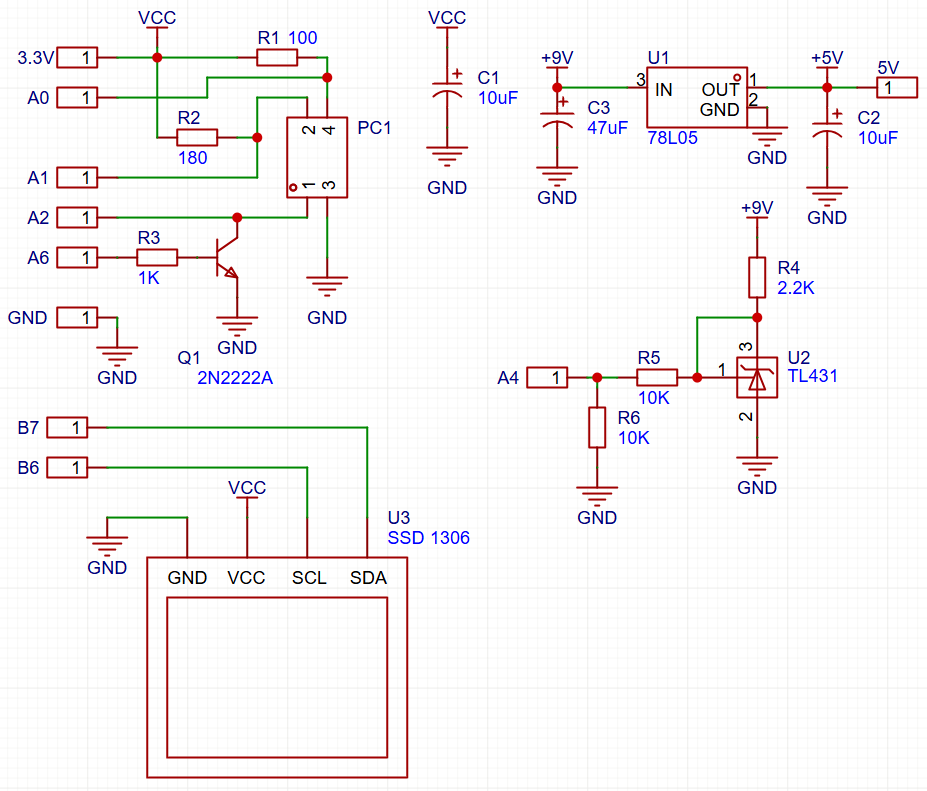
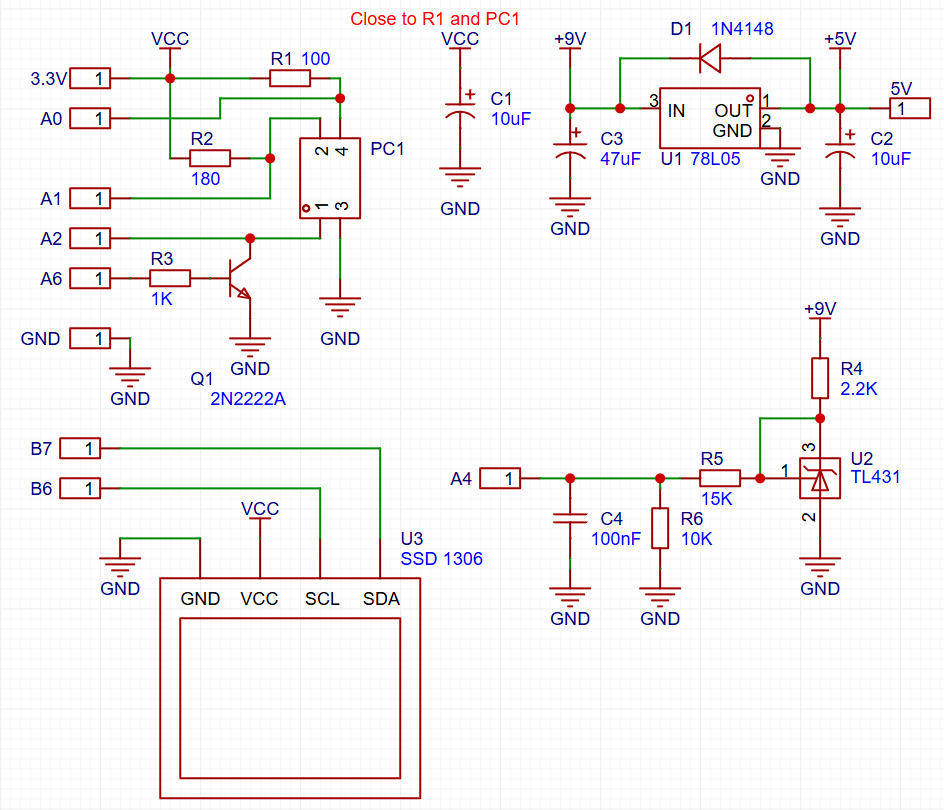
TL431 support

Changed region(s): [[0.0, 0.0, 0.5135, 1.0], [0.3625, 0.0, 0.9968, 0.7889], [0.5739, 0.6979, 0.6343, 0.7889]]

diff --git a/Core/Src/measurements.c b/Core/Src/measurements.c
@@ -3,30 +3,47 @@
 #include "ssd1306_fonts.h"
 #include <stdio.h>
 
-// TODO include ssd1306.h
-// TODO constants
-// Vdd = 3.3, Rk = 56, Rc = 100
-
 const uint8_t INDEX_A1 = 0,
 	INDEX_A2 = 1,
 	INDEX_A3 = 2,
 	INDEX_A4 = 3;
-const float VDD = 3.3f, R_A = 187, R_C = 99;
 
-//uint16_t adcValues[4];
+const float VDD = 3.3f,
+		R_A = 187,
+		R_C = 99,
+		R1 = 14.98,
+		R2 = 9.97,
+		regulatorRatio = (R1 + R2) / R2;
+
+const char REGULATOR_WITHIN_SPECS[] = "Within specs",
+		REGULATOR_SHORTED[] = "Shorted",
+		REGULATOR_DEGRADED[] = "Degraded";
+
+const char REGULATOR_SUMMARY[2][20] = {"2.45-2.55V in specs", "0-0.7V short"};
+
+enum RegulatorResult {
+	DEGRADED,
+	SHORTED,
+	WITHIN_SPECS
+};
 
 typedef struct {
-    float Vf;       // Volts
+    float Vf;       // V
     float If;       // mA
-    float Vce;      // Volts
+    float Vce;      // V
     float Ic;       // mA
-    float CTR;      // Percentage (%)
-    float Vcedark;  // Volts
+    float CTR;      // %
+    float Vcedark;  // V
     uint8_t ctrPassed;
 	uint8_t vfPassed;
 	uint8_t darkPassed;
 	float Vreg;
-} Metrics;
+} OptocouplerMetrics;
+
+typedef struct {
+	float Vreg;
+	enum RegulatorResult result;
+} RegulatorMetrics;
 
 float digitalToAnalogValue(uint16_t value) {
 	return (value * 3.3f) / 4095.0f;
@@ -36,7 +53,7 @@ char* failureMark(uint8_t passed) {
 	return passed == 1 ? "" : "* ";
 }
 
-void updateDisplay(Metrics metrics) {
+void displayOptocouplerMetrics(OptocouplerMetrics metrics) {
     char buf[32];
     ssd1306_Fill(Black);
 
@@ -54,15 +71,14 @@ void updateDisplay(Metrics metrics) {
 
     // uint8_t passed = metrics.ctrPassed && metrics.vfPassed; // && metrics.darkPassed;
     snprintf(buf, sizeof(buf), "Dark Vce: %.2fV %s", metrics.Vcedark, failureMark(metrics.darkPassed));
-//    snprintf(buf, sizeof(buf), "Pass: %s", passed ? "OK" : "x");
     ssd1306_SetCursor(0, 48);
     ssd1306_WriteString(buf, Font_7x10, White);
 
     ssd1306_UpdateScreen();
 }
 
-void measure(GPIO_TypeDef* GPIOx, uint16_t GPIO_Pin, ADC_HandleTypeDef *hadc, uint16_t *adcValues) {
-	Metrics metrics;
+void measureOptocoupler(GPIO_TypeDef* GPIOx, uint16_t GPIO_Pin, ADC_HandleTypeDef *hadc, uint16_t *adcValues) {
+	OptocouplerMetrics metrics;
 
 	HAL_GPIO_WritePin(GPIOx, GPIO_Pin, GPIO_PIN_SET);
 	HAL_Delay(100);
@@ -101,12 +117,65 @@ void measure(GPIO_TypeDef* GPIOx, uint16_t GPIO_Pin, ADC_HandleTypeDef *hadc, ui
 
 	metrics.Vcedark = digitalToAnalogValue(adcValues[INDEX_A1]);
 
-	// Verify darkVce - darkVce > (V_AN * 0.95) -> OK
 	if (metrics.Vcedark > (VDD * 0.95)) {
 		metrics.darkPassed = 1;
 	}
 
-	updateDisplay(metrics);
+	displayOptocouplerMetrics(metrics);
 }
 
+void displayRegulatorMetrics(RegulatorMetrics metrics) {
+    char buf[32];
+    ssd1306_Fill(Black);
+
+    char* status;
+    if (metrics.result == WITHIN_SPECS) {
+    	status = REGULATOR_WITHIN_SPECS;
+    }
+    else if (metrics.result == SHORTED) {
+    	status = REGULATOR_SHORTED;
+    }
+    else {
+    	status = REGULATOR_DEGRADED;
+    }
+
+    snprintf(buf, sizeof(buf), "Vreg: %.2fV", metrics.Vreg);
+    ssd1306_SetCursor(0, 0);
+    ssd1306_WriteString(buf, Font_7x10, White);
+
+	ssd1306_SetCursor(0, 16);
+	ssd1306_WriteString(status, Font_7x10, White);
+
+	for (uint8_t i = 0; i < 2; i++) {
+		ssd1306_SetCursor(0, 32 + i * 16);
+		ssd1306_WriteString((char*) REGULATOR_SUMMARY[i], Font_7x10, White);
+	}
+
+    ssd1306_UpdateScreen();
+}
+
+float convertRegulatorMeasurementToV(float measurement) {
+	return measurement * regulatorRatio;
+}
+
+void measureRegulator(ADC_HandleTypeDef *hadc, uint16_t *adcValues) {
+	HAL_ADC_Start_DMA(hadc, (uint32_t*) adcValues, 4);
+	HAL_Delay(100);
+
+	RegulatorMetrics metrics;
+	metrics.Vreg = convertRegulatorMeasurementToV(digitalToAnalogValue(adcValues[INDEX_A4]));
+//	metrics.Vreg = digitalToAnalogValue(adcValues[INDEX_A4]);
+
+	if (metrics.Vreg <= 0.7) {
+		metrics.result = SHORTED;
+	}
+	else if (metrics.Vreg >= 2.45 && metrics.Vreg <= 2.55) {
+		metrics.result = WITHIN_SPECS;
+	}
+	else {
+		metrics.result = DEGRADED;
+	}
+
+	displayRegulatorMetrics(metrics);
+}
 

diff --git a/Core/Src/main.c b/Core/Src/main.c
@@ -34,6 +34,11 @@
 /* Private typedef -----------------------------------------------------------*/
 /* USER CODE BEGIN PTD */
 
+enum Mode {
+	OPTOCOUPLER,
+	REGULATOR
+};
+
 /* USER CODE END PTD */
 
 /* Private define ------------------------------------------------------------*/
@@ -51,6 +56,8 @@
 /* USER CODE BEGIN PV */
 
 uint16_t adcValues[4];
+
+enum Mode mode = REGULATOR;
 
 /* USER CODE END PV */
 
@@ -106,9 +113,15 @@ int main(void)
   ssd1306_Init();
   while (1)
   {
-//	  HAL_ADC_Start_DMA(&hadc1, (uint32_t*) adcValues, 4);
-	  measure(OP_ON_GPIO_Port, OP_ON_Pin, &hadc1, adcValues);
-	  HAL_Delay(200);
+	  if (mode == OPTOCOUPLER) {
+		  measureOptocoupler(OP_ON_GPIO_Port, OP_ON_Pin, &hadc1, adcValues);
+	  	  HAL_Delay(200);
+	  }
+	  else {
+		  measureRegulator(&hadc1, adcValues);
+		  HAL_Delay(800);
+	  }
+
     /* USER CODE END WHILE */
 
     /* USER CODE BEGIN 3 */

diff --git a/Core/Src/adc.c b/Core/Src/adc.c
@@ -52,7 +52,7 @@ void MX_ADC1_Init(void)
   hadc1.Init.ExternalTrigConvEdge = ADC_EXTERNALTRIGCONVEDGE_NONE;
   hadc1.Init.ExternalTrigConv = ADC_SOFTWARE_START;
   hadc1.Init.DataAlign = ADC_DATAALIGN_RIGHT;
-  hadc1.Init.NbrOfConversion = 3;
+  hadc1.Init.NbrOfConversion = 4;
   hadc1.Init.DMAContinuousRequests = DISABLE;
   hadc1.Init.EOCSelection = ADC_EOC_SINGLE_CONV;
   if (HAL_ADC_Init(&hadc1) != HAL_OK)
@@ -83,6 +83,15 @@ void MX_ADC1_Init(void)
   */
   sConfig.Channel = ADC_CHANNEL_3;
   sConfig.Rank = 3;
+  if (HAL_ADC_ConfigChannel(&hadc1, &sConfig) != HAL_OK)
+  {
+    Error_Handler();
+  }
+
+  /** Configure for the selected ADC regular channel its corresponding rank in the sequencer and its sample time.
+  */
+  sConfig.Channel = ADC_CHANNEL_1;
+  sConfig.Rank = 4;
   if (HAL_ADC_ConfigChannel(&hadc1, &sConfig) != HAL_OK)
   {
     Error_Handler();

diff --git a/Core/Inc/measurements.h b/Core/Inc/measurements.h
@@ -3,6 +3,8 @@
 
 #include "stm32f4xx_hal.h"
 
-void measure(GPIO_TypeDef* GPIOx, uint16_t GPIO_Pin, ADC_HandleTypeDef *hadc, uint16_t *adcValues);
+void measureOptocoupler(GPIO_TypeDef* GPIOx, uint16_t GPIO_Pin, ADC_HandleTypeDef *hadc, uint16_t *adcValues);
+
+void measureRegulator(ADC_HandleTypeDef *hadc, uint16_t *adcValues);
 
 #endif /* __MEASUREMENTS_H */
